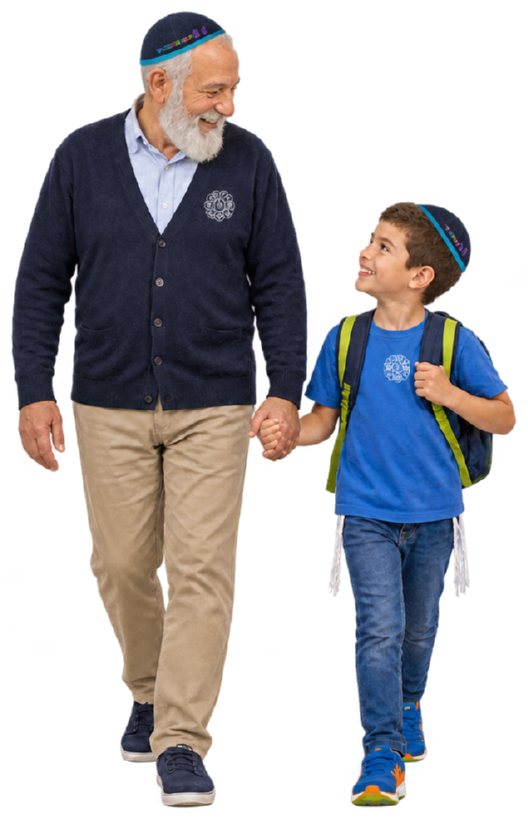
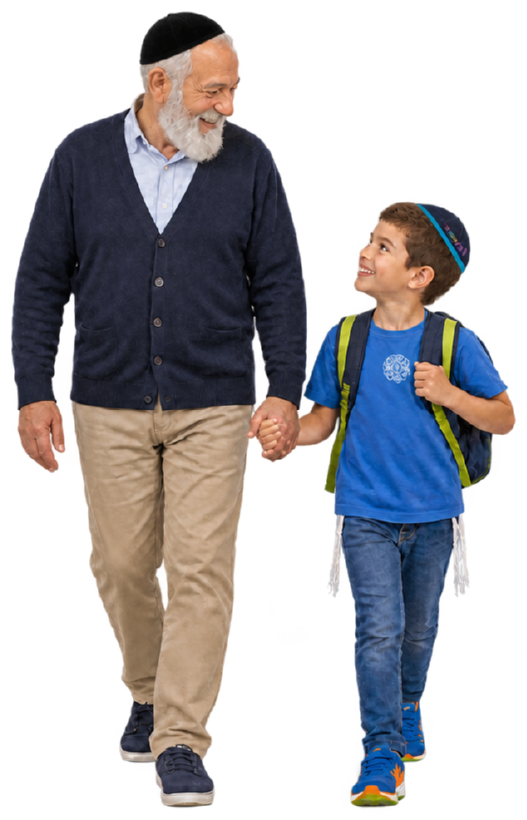
משחק החזון — מפגש מנהלות תחומים: עדכון

diff --git a/vision/items.js b/vision/items.js
@@ -521,11 +521,11 @@ export const GROUPS = [
       K('family-mom', 'אמא ובנותיה', ['הורים', 'משפחה', 'משפחות', 'מעורבות הורים', 'שותפות', '^אמא', '^אמהות'],
       'A modern Israeli mother in a modest trendy style — a long denim skirt, a top with long sleeves down to the wrists, a fashionable head scarf — walking with her TWO DAUGHTERS — both are girls in straight knee-length denim skirts, opaque tights and long-sleeved tops (only girls, no boys at all) — who carry school backpacks, all waving and smiling.', { sz: 'sq', h: 0.29, v: 3, uniform: 1 }),
       K('family-dad', 'אבא ובניו', ['הורים', 'משפחה', 'משפחות', 'מעורבות הורים', 'שותפות', '^אבא', '^אבות'],
-      'A modern Israeli father with a short trimmed beard, a black kippah, a casual button shirt and jeans, walking with his two sons who carry school backpacks, all waving and smiling.', { sz: 'sq', h: 0.29, v: 2, uniform: 1 }),
+      'A modern Israeli father with a short trimmed beard, a black kippah, a casual button shirt and jeans, walking with his two sons who carry school backpacks, all waving and smiling.', { sz: 'sq', h: 0.29, v: 3, uniform: 1 }),
       O('house-heart', 'בית עם לב', ['קשר עם הבית', 'בית חם', 'משפחתיות', 'הבית', 'כמו בית'],
         'a small cardboard house painted yellow with an orange roof and a pink heart on the door.', { h: 0.12 }),
       K('grandpa', 'סבא ונכד', ['^סבא', '^סבים', 'דורות', '^דור', 'יום המשפחה'],
-      'A smiling grandfather with a white beard, a black kippah and a cardigan, holding hands with his young grandson who wears a backpack.', { sz: 'sq', h: 0.29, v: 2, uniform: 1 }),
+      'A smiling grandfather with a white beard, a black kippah and a cardigan, holding hands with his young grandson who wears a backpack.', { sz: 'sq', h: 0.29, v: 3, uniform: 1 }),
       K('grandma', 'סבתא ונכדה', ['^סבתא', 'סבתות', 'דורות', '^דור', 'יום המשפחה'],
       'A smiling grandmother with a modest hat, a long skirt and a warm cardigan, holding hands with her young granddaughter who wears a backpack.', { sz: 'sq', h: 0.29, v: 2, uniform: 1 }),
       O('phone', 'טלפון עם עדכונים', ['עדכונים', 'קבוצת הורים', 'וואטסאפ', 'ווטסאפ', 'אפליקציה', 'תקשורת עם ההורים', 'קשר רציף', 'שקיפות'],
@@ -554,8 +554,6 @@ export const GROUPS = [
   { id: 'staff', domain: 'management', he: 'צוות מוביל', topic: 'staff',
     kw: ['מורה', 'מורות', 'מורים', 'צוות', 'צוות חינוכי', 'מחנכת', 'מחנכות', '^מחנך', 'השתלמות', 'השתלמויות', 'פיתוח מקצועי', 'הכשרה', 'מקצועיות', 'מקצועי', 'הוראה', 'פדגוגיה', 'פדגוגי', 'למידת עמיתים', 'חדר מורות', 'אנשי חינוך', 'גננות'],
     items: [
-      K('teacher', 'מורה מסבירה', ['מורה', 'מורות', 'מחנכת', 'מחנכות', 'הוראה', 'מלמדת'],
-        'A warm young teacher — a modern Israeli woman in a modest trendy style: a long straight skirt, a blouse with three-quarter sleeves covering the elbows, a stylish head scarf — pointing at a small cardboard whiteboard on an easel with colorful shapes, smiling. She is the only person in the image — nobody else at all.', { h: 0.3, v: 4, uniform: 1 }),
       O('apple-books', 'תפוח על ספרים', ['מורה', 'מורות', 'צוות', 'הוראה'],
         'a shiny red apple on top of two stacked books.', { h: 0.1 }),
       O('coffee-mug', 'ספל קפה של חדר המורות', ['חדר מורות', 'צוות מגובש', 'ישיבת צוות', 'ישיבות צוות', 'אווירה בצוות', 'גיבוש צוות'],
@@ -566,8 +564,6 @@ export const GROUPS = [
         'a shiny brass school hand bell with a wooden handle.', { h: 0.09 }),
       O('clock', 'שעון', ['^זמן', '^זמנים', 'דייקנות', 'דייקן', 'בזמן', 'שעון', 'ניהול זמן'],
         'a big round cardboard wall clock with a cyan frame, colorful dots instead of numbers and orange hands.', { h: 0.11 }),
-      K('teacher-kids', 'מורה קוראת עם תלמידות', ['מחנכת', 'קשר אישי', 'קשר עם המורה', 'מורה אוהבת'],
-      'A kind teacher in a modest style (long skirt, blouse with three-quarter sleeves covering the elbows, head scarf) sitting on a low cardboard bench with two girls on either side, reading a picture book to them, all smiling.', { sz: 'wide', h: 0.25, v: 2, uniform: 1 }),
     ] },
 
   // ───────────── הישגים וצמיחה ─────────────
@@ -748,10 +744,6 @@ export const GROUPS = [
   { id: 'management', domain: 'management', he: 'ניהול מיטבי', topic: 'staff',
     kw: ['ניהול', 'ניהול מיטבי', 'מנהלת', 'הנהלה', 'מקצועיות', 'מקצועית', 'תכנון', 'תוכנית עבודה', 'תכנית עבודה', 'בקרה', 'מעקב', 'נהלים', 'ארגון', '^מאורגן', '^מאורגנת', '^מסודר', '^מסודרת', 'תהליכים', 'הובלה', 'מנהיגות חינוכית', 'למידת צוות', 'קהילה מקצועית', 'עבודת צוות', 'שיתוף פעולה', 'צוות מוביל', 'אחריות משותפת'],
     items: [
-      K('principal', 'מנהלת', ['מנהלת', 'המנהלת', 'הנהלה', 'ניהול', 'מנהיגות חינוכית', 'הובלה'],
-        'A confident, warm school principal — a modern Israeli woman in a modest elegant style: a long straight skirt reaching mid-calf, a long-sleeved blazer over a blouse, a stylish head scarf — holding a tablet against her arm and smiling, standing tall. She is the only person in the image — nobody else at all.', { h: 0.3, v: 3, uniform: 1 }),
-      K('team-meeting', 'ישיבת צוות', ['ישיבת צוות', 'ישיבות צוות', 'למידת צוות', 'קהילה מקצועית', 'עבודת צוות'],
-        'Three women teachers in a modest style (long skirts, long-sleeved blouses, stylish head scarves) sitting around a small round cardboard table with notebooks, a laptop and coffee mugs, discussing and smiling. Only these three women are in the image — nobody else at all.', { sz: 'wide', h: 0.24, v: 3, uniform: 1 }),
       O('gears', 'גלגלי שיניים', ['תהליכים', 'מערכת', 'ניהול', 'ארגון', 'עובד כמו שעון'],
         'three interlocking colorful cardboard gears (cyan, orange and purple) turning together.', { h: 0.12 }),
       O('planner', 'לוח תכנון', ['תכנון', 'תוכנית עבודה', 'תכנית עבודה', 'לוח זמנים', 'גאנט', 'מעקב'],
